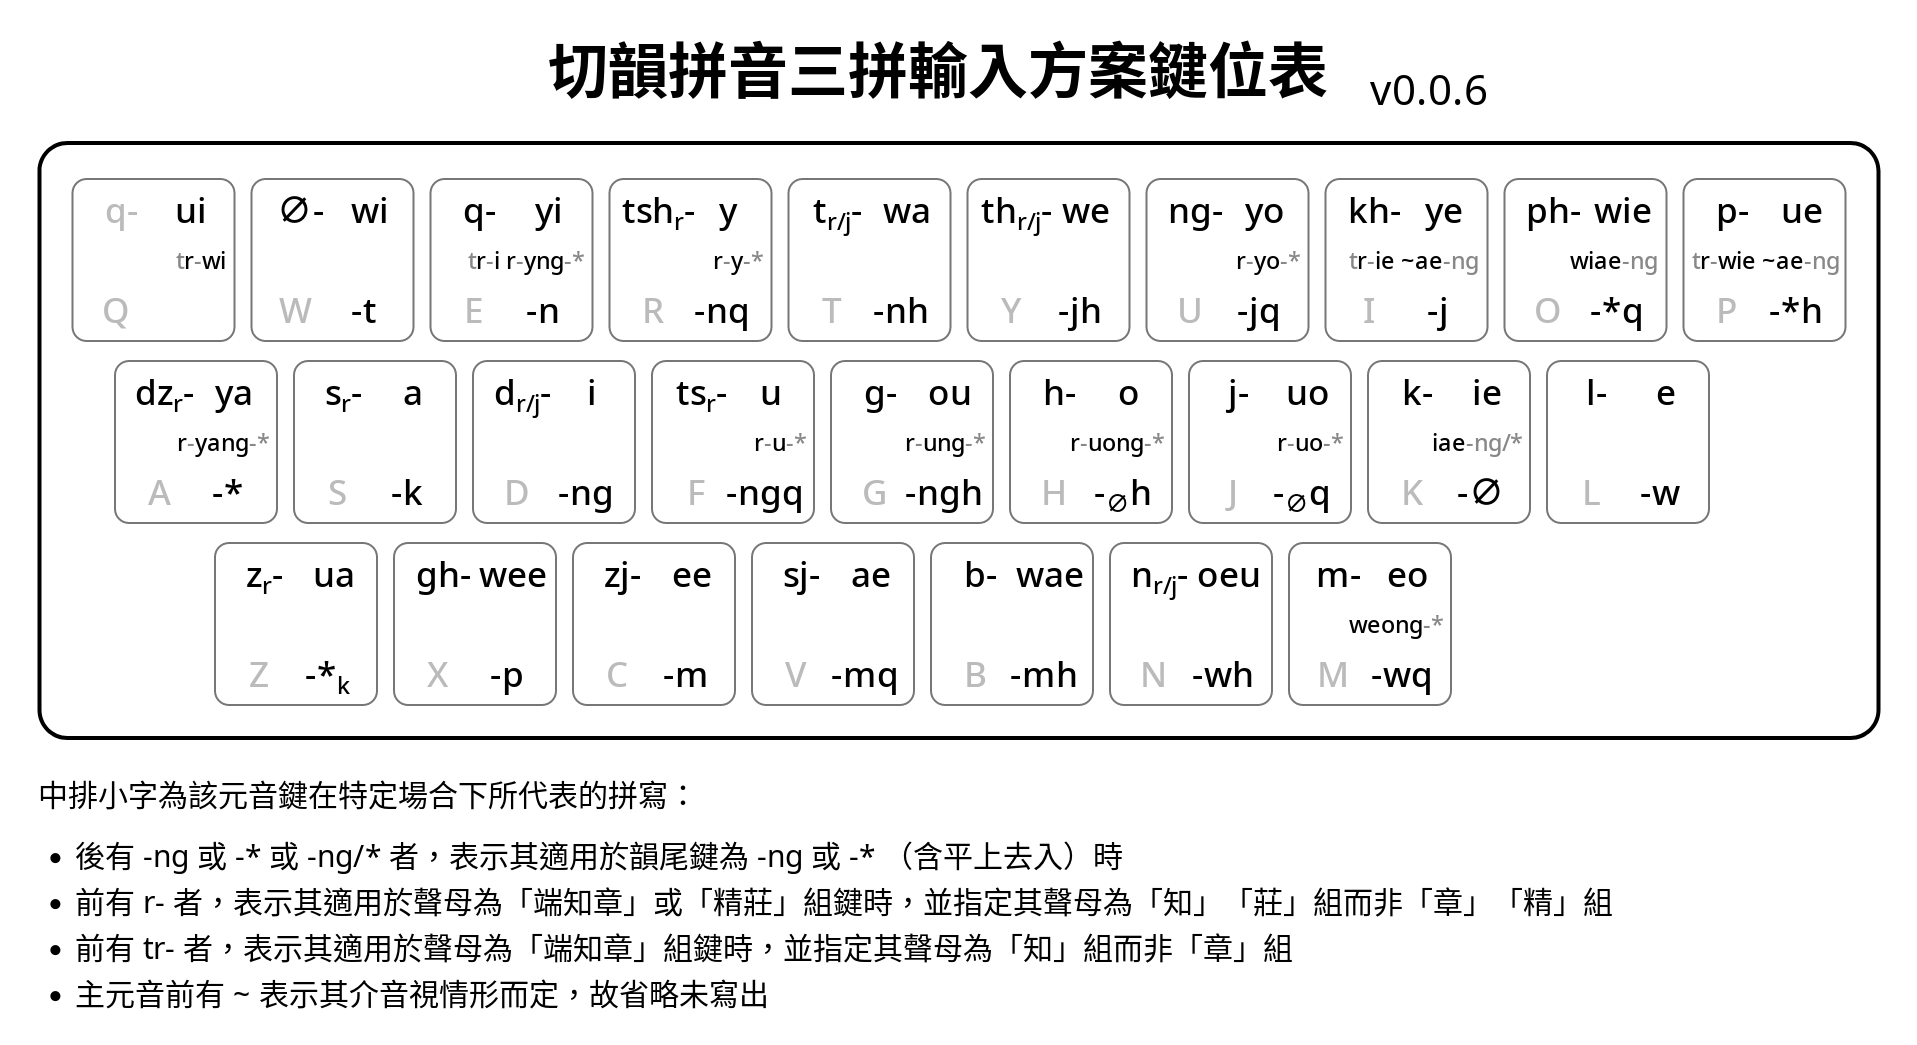
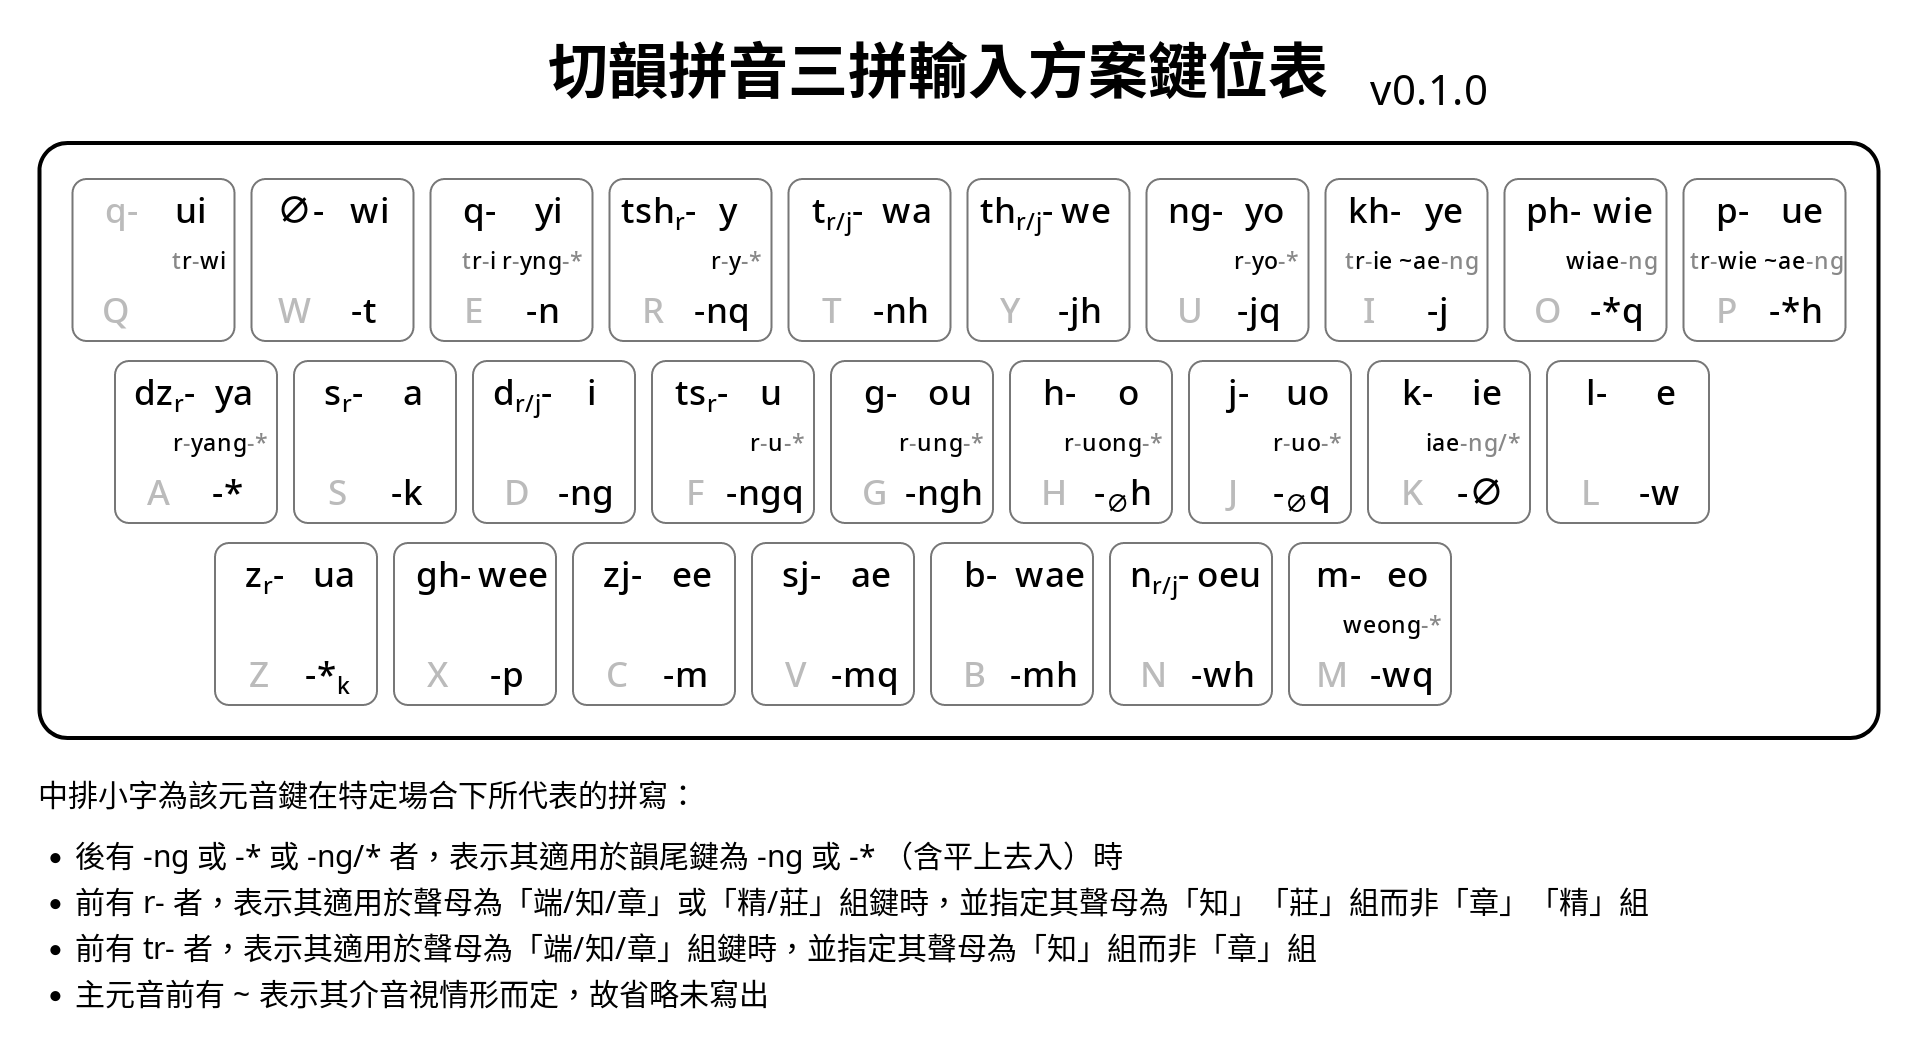
Improve README & enter beta! (v0.1.0)

diff --git a/README.md b/README.md
@@ -1,8 +1,8 @@
-# RIME 切韻拼音三拼輸入法（α 測試版）
+# RIME 切韻拼音三拼輸入方案
 
 基於 [RIME 切韻拼音輸入方案](https://github.com/ayaka14732/rime-tupa)，用固定三鍵打出一字。
 
-__注意__：此為 alpha 版，音到鍵的對應仍有些調整空間；鍵位排佈則為初稿，尚需實際測試。故先公開發佈方案，以供體驗使用。
+__注意__：本輸入方案目前為 beta 版，設計已基本敲定，並經過測試。歡迎反饋使用體驗～
 
 ![Screenshot](screenshot.png)
 
@@ -20,7 +20,7 @@ __注意__：此為 alpha 版，音到鍵的對應仍有些調整空間；鍵位
 
 ## 鍵位表
 
-此為簡表，具體鍵位說明見後文詳述。
+此為簡表，具體說明及鍵位排佈邏輯（記憶方法）見後文詳述。
 
 ![Layout](layout.png)
 
@@ -30,7 +30,7 @@ __注意__：此為 alpha 版，音到鍵的對應仍有些調整空間；鍵位
 
 25 鍵：
 
-- 端知章（書船除外）組同鍵
+- 端知章組（含日母，不含書船母）同鍵
 - 精莊組同鍵
 
 ### 鍵位
@@ -41,24 +41,26 @@ __注意__：此為 alpha 版，音到鍵的對應仍有些調整空間；鍵位
 | 從 dz<br />A | 心 s<br />S | 定 d<br />D  | 精 ts<br />F  | 羣 g<br />G | 曉 h<br />H  | 以 j<br />J  | 見 k<br />K  | 來 l<br />L  |             |
 | 邪 z<br />Z  | 匣 x<br />X | 船 zj<br />C | 書 sj<br />V  | 並 b<br />B | 泥 n<br />N  | 明 m<br />M  |              |              |             |
 
-- 拼音為單字母的聲母，與字母鍵一致（惟影母除 Q 外亦可為 E）
-- 滂在幫左 (O)、透在端右 (Y)、溪在見上 (I)
-- 疑在溪左 (U)
+如何記憶鍵位：
+
+- 拼音為單字母的聲母，與字母鍵一致（惟影母除 Q 外亦可用 E）
+- 滂在幫之左 (O)、透在端之右 (Y)、溪在見之上 (I)
+- 疑在溪之左 (U)
 - 云在 W、匣在 X
-- 從在心邪間的 A
-- 精在 F、清在精上 (R)
-- 書在 V、船在書左 (C)
+- 從在 A 與心邪均相鄰
+- 精在 F、清在精之上 (R)
+- 書在 V、船在書之左 (C)
 
 ## 韻尾、四聲
 
 25 鍵
 
-- -0 平上去、-ng/k 平上去入（7 鍵）
+- -∅ 平上去、-ng/k 平上去入（7 鍵）
 - -j、-n/t（7 鍵）
 - -w、-m/p（7 鍵）
-- -*（4 鍵）
+- -*（平上去入 4 鍵）
 
-寫為「-*」的 4 鍵為特殊韻尾鍵，和特定元音鍵形成固定組合（詳見後面元音表）。
+寫為「-*」的四個鍵為特殊韻尾鍵，和特定元音鍵形成固定組合（詳見後面元音表）。
 
 ### 鍵位
 
@@ -77,7 +79,9 @@ Z    X C V B       N M
 入<* 入平上去<m  w>去上
 ```
 
-- 中間部分三排對應韻尾三類，左手陽聲韻，右手陰聲韻（惟 -w 尾平聲挪至旁邊 L）
+如何記憶鍵位：
+
+- 三排對應韻尾三類，左手陽聲韻，右手陰聲韻（惟 -w 尾平聲挪至旁邊中排 L 鍵）
 - 「-*」尾四鍵均在邊緣
 
 ## 元音
@@ -101,7 +105,7 @@ Z    X C V B       N M
 ### 「-*」尾用法
 
 1. 調整聲母搭配：
-   - 主要 3C 元音 yo/uo/y/u 後接 -* 時為 -∅ 尾，並由原先拼章精組改為拼知莊組
+   - 主要的 3C 元音 yo/uo/y/u 後接 -* 時為 -∅ 尾，並由原先拼章精組改為拼知莊組
    - ya 後接 -* 為 -ng 尾，並改拼知莊組
 2. 調整等第及聲母搭配
    - 通攝 ung、uong 欲拼知莊組，用對應的一等元音 ou、o 接 -* 尾
@@ -113,21 +117,21 @@ Z    X C V B       N M
 
 ### <a name="special-final"></a>如何掌握「-*」尾用法？
 
-<b>「-*」尾用法不用一上來就全記住！</b>只需要以下三條處理原則就可以<b>立即開始打字</b>，並在實際使用中漸漸掌握用法：
+<b>「-*」尾用法不需要硬記！</b>只需要以下三條處理原則就可以對着鍵位表<b>立即開始打字</b>，並在實際使用中漸漸熟悉其用法：
 
 1. __章精變知莊__：想打「知」「莊」組聲母卻打出「章」「精」組，說明此處可能就是「-\*」尾派上用場的時候！如果想打的元音不分AB類重紐，就換用「-\*」韻尾鍵試試吧！（當然，分重紐的元音就只需換B類即可切換聲母，不用換韻尾）
    - 例：初學三拼時想試着打「張」tryang，敲 t-ya-ng (<kbd>T</kbd>-<kbd>A</kbd>-<kbd>D</kbd>) 發現打出的是「章」tjyang，且 ya 不分重紐，那麼改打 t-ya-* (<kbd>T</kbd>-<kbd>A</kbd>-<kbd>A</kbd>) 就能成功打出「張」
-   - 例二：想打「使」sryq，敲 s-y-q (<kbd>S</kbd>-<kbd>R</kbd>-<kbd>J</kbd>) 發現打出的是「萆」syq，且 y 不分重紐AB，改打 s-y-*q (<kbd>S</kbd>-<kbd>R</kbd>-<kbd>O</kbd>) 就能成功打出「使」
-2. __-ng 尾可能換元音__：打 -ng 尾三等字，照着上一條做，卻打出了不帶韻尾的字，說明除了韻尾鍵用「-*」外，還需要換用與其最接近的相鄰元音鍵（鍵盤上也是相鄰的），這種情況只有三個韻出現：ung 用 ou 鍵、uong 用 o 鍵、yng 用 yi 鍵就可以了！
-   - 例：初學三拼想打「中」trung，敲 t-u-ng (<kbd>T</kbd>-<kbd>F</kbd>-<kbd>D</kbd>) 發現打出的是「終」tjung，改打 t-u-* (<kbd>T</kbd>-<kbd>F</kbd>-<kbd>A</kbd>) 發現打出的是「啁」tru 沒有 -ng 尾，那麼再改 t-ou-* (<kbd>T</kbd>-<kbd>G</kbd>-<kbd>A</kbd>) 就能成功打出「中」
-   - 例二：想打「僜」trhyng，敲 th-y-ng (<kbd>Y</kbd>-<kbd>R</kbd>-<kbd>D</kbd>) 發現打出的是「稱」tjhyng，改打 th-y-* (<kbd>Y</kbd>-<kbd>R</kbd>-<kbd>A</kbd>) 發現打出的是「癡」trhy 沒有 -ng 尾，那麼再改 th-yi-* (<kbd>Y</kbd>-<kbd>E</kbd>-<kbd>A</kbd>) 能成功打出「僜」
-3. __最後兩韻直接記__：最後就只剩下麻三 iae 用 ie-\*，以及登合 weong 用 eo-\* 這兩個特別組合了，請直接記住就好。
+   - 例二：想打「事」dzryh，敲 dz-y-h (<kbd>A</kbd>-<kbd>R</kbd>-<kbd>H</kbd>) 發現打出的是「字」dzyh，且 y 不分重紐AB，改打 dz-y-*h (<kbd>A</kbd>-<kbd>R</kbd>-<kbd>P</kbd>) 就能成功打出「事」
+2. __通曾攝用鄰元音__：打「知」「莊」組 -ng 尾三等字，照着上一條做，卻打出了不帶韻尾的字，說明除了韻尾鍵用「-*」外，還需要換用與其最接近的相鄰元音鍵（鍵盤上也是相鄰的），這種情況只在通、曾兩攝三等韻出現，只有三個：ung 用 ou 鍵、uong 用 o 鍵、yng 用 yi 鍵就可以了！
+   - 例：初學三拼想打「中」trung，敲 t-u-ng (<kbd>T</kbd>-<kbd>F</kbd>-<kbd>D</kbd>) 發現打出的是「終」tjung，改用「-\*」尾打 t-u-* (<kbd>T</kbd>-<kbd>F</kbd>-<kbd>A</kbd>) 發現打出的是「啁」tru 沒有 -ng 尾，那麼再改打鄰元音 t-ou-* (<kbd>T</kbd>-<kbd>G</kbd>-<kbd>A</kbd>) 就能成功打出「中」
+   - 例二：想打「懲」dryng，敲 d-y-ng (<kbd>D</kbd>-<kbd>R</kbd>-<kbd>D</kbd>) 發現打出的是「承」djyng，改用「-\*」尾打 d-y-* (<kbd>D</kbd>-<kbd>R</kbd>-<kbd>A</kbd>) 發現打出的是「持」dry 沒有 -ng 尾，那麼再改打鄰元音 d-yi-* (<kbd>D</kbd>-<kbd>E</kbd>-<kbd>A</kbd>) 就能成功打出「懲」
+3. __麻三、登合直接記__：最後就只剩下麻三 iae 用 ie-\*，以及登合 weong 用 eo-\* 這兩個特別組合了，請直接記住就好。
 
 ### 特殊處理
 
 - 「地」dih 單獨編碼為「d-i-jh」，以區別於「視」（常母，d-i-∅h）
-- 「𩦠」biangq 元音 ia 按 ya 輸入
-- 「怎」tsoimq（精開一侵上）該音不在切韻音系中，其元音寄於最不常用的 ui 鍵，編碼為「ts-ui-mq」
+- 「𩦠」biangq 元音 ia 按 ya 來輸入
+- 「怎」tsoimq（精開一侵上）該音是後起音，不在切韻音系中，其元音 oi 寄於最不常用的 ui 鍵，編碼為「ts-ui-mq」
 
 ### 鍵位
 
@@ -137,10 +141,12 @@ Z    X C V B       N M
 | ya<br />A | a<br />S   | i<br />D  | u<br />F  | ou<br />G  | o<br />H   | uo<br />J | ie<br />K | e<br />L   |           |
 | ua<br />Z | wee<br />X | ee<br />C | ae<br />V | wae<br />B | oeu<br />N | eo<br />M |           |            |           |
 
-- 左手中排食指為 u，其上為對應的開口 y，其右為對應的一等 ou
-  - 右手對稱，中排食指為 uo，其上為 yo，其左為 o，其下則為 o 對應的開口 eo
+如何記憶鍵位：
+
+- 左手中排食指為 u，其正上為對應的開口 y，其右為對應的一等 ou
+  - 右手對稱，中排食指為 uo，其上為開口 yo，其左為一等 o；此外其正下為 o 所對應的開口 eo
 - 左手中排中指為 i，其正上開始往左分別為 yi、wi、ui
-  - 右手對稱，中排中指為 ie，其上開始往右分別為 ye, wie, ue
+  - 右手對稱，中排中指為 ie，其正上開始往右分別為 ye, wie, ue
 - 左手中排無名指為 a，其合口 wa 在食指右上
   - 右手對稱，中排無名指為 e，其合口 we 在食指左上
   - 左手小指（即 a 左邊）為 ya，合口 ua 在其下
